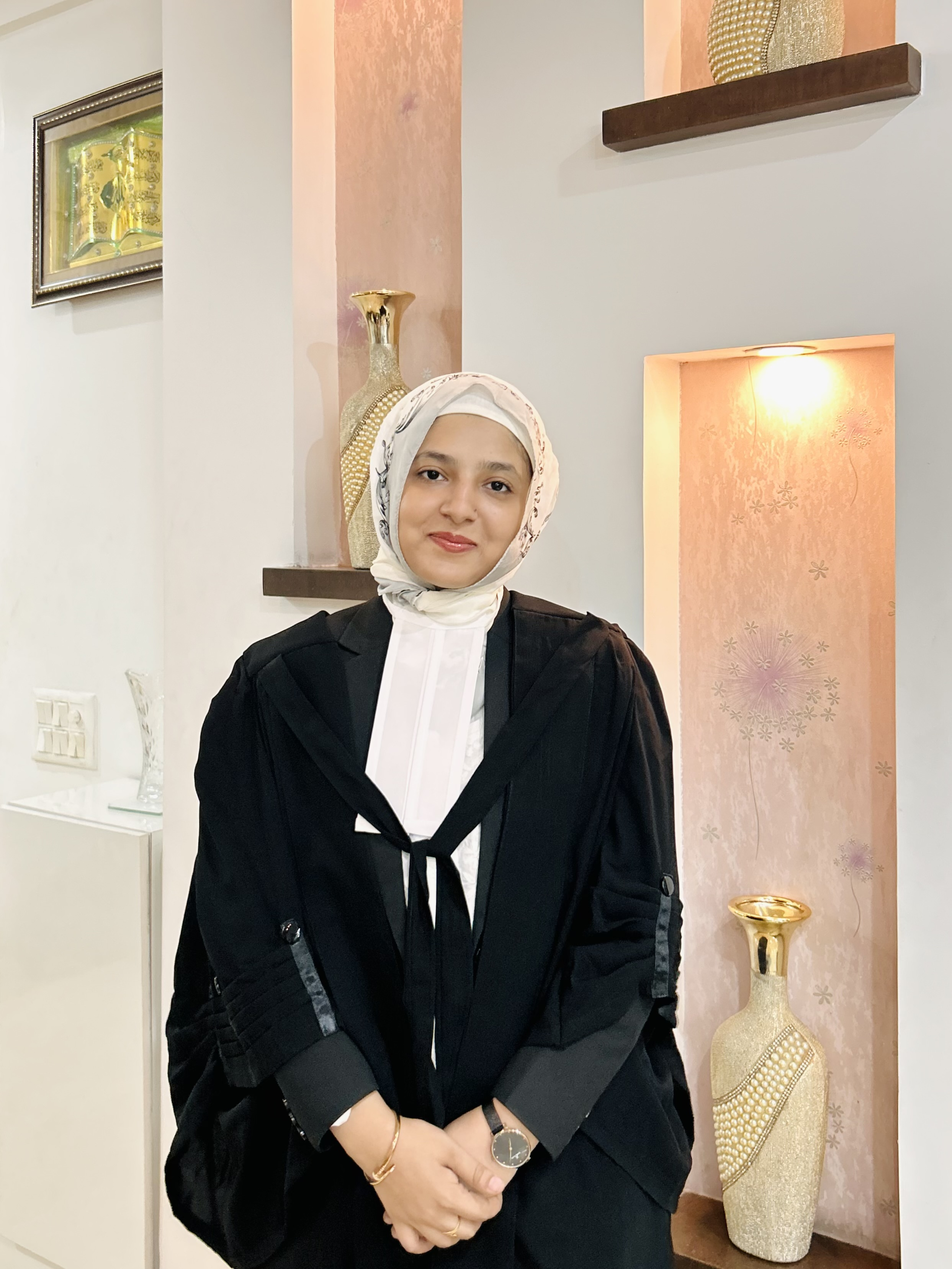
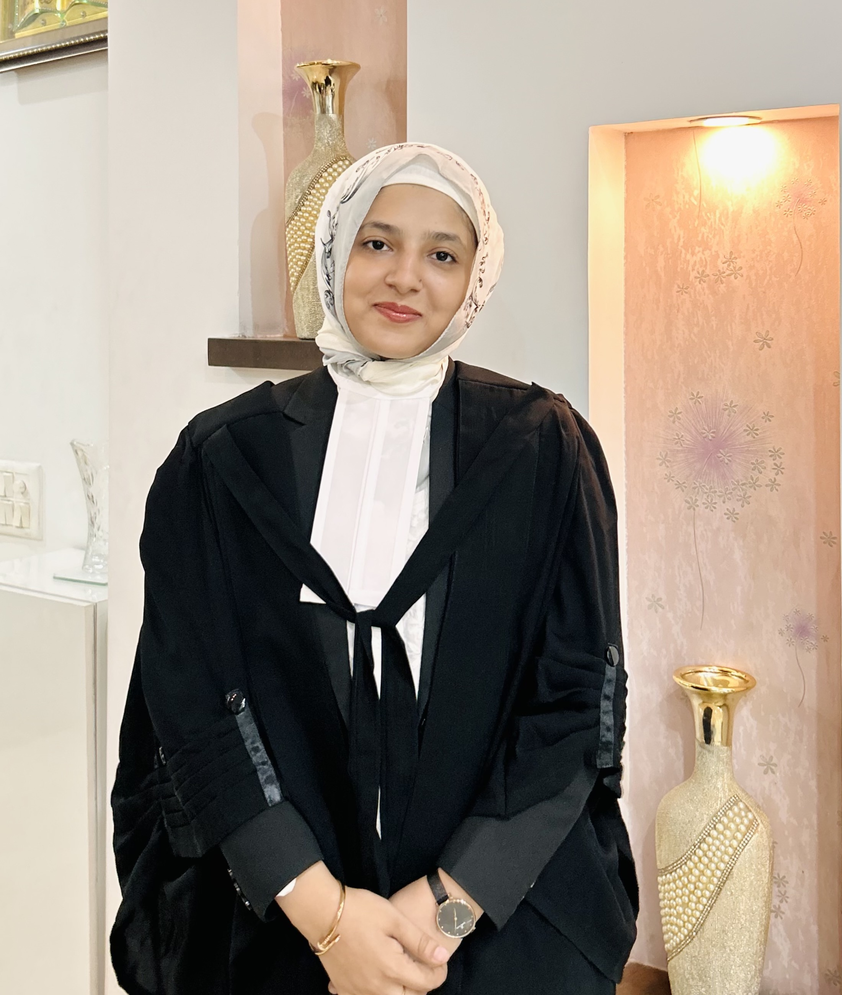
Fix: Fine-tune portrait framing for Izeen & Tanzeel and ensure 100% upright orientation for Mahvish

diff --git a/components/home/PartnersSpotlight.tsx b/components/home/PartnersSpotlight.tsx
@@ -205,7 +205,7 @@ export default function PartnersSpotlight() {
                     alt={assoc.name}
                     fill
                     sizes="(max-width: 640px) 100vw, 250px"
-                    className="object-cover object-top group-hover:scale-105 transition-transform duration-500"
+                    className="object-cover object-center group-hover:scale-105 transition-transform duration-500"
                   />
                   <div className="absolute top-3 left-3">
                     <span className="px-2 py-0.5 bg-[#0B0B0C]/80 text-[#FEF9F3] text-[9px] uppercase tracking-widest font-medium rounded-sm">

diff --git a/app/team/page.tsx b/app/team/page.tsx
@@ -283,7 +283,7 @@ export default function TeamPage() {
                           alt={assoc.name}
                           fill
                           sizes="(max-width: 640px) 100vw, 220px"
-                          className="object-cover object-top"
+                          className="object-cover object-center"
                         />
                       </div>
                     </div>
